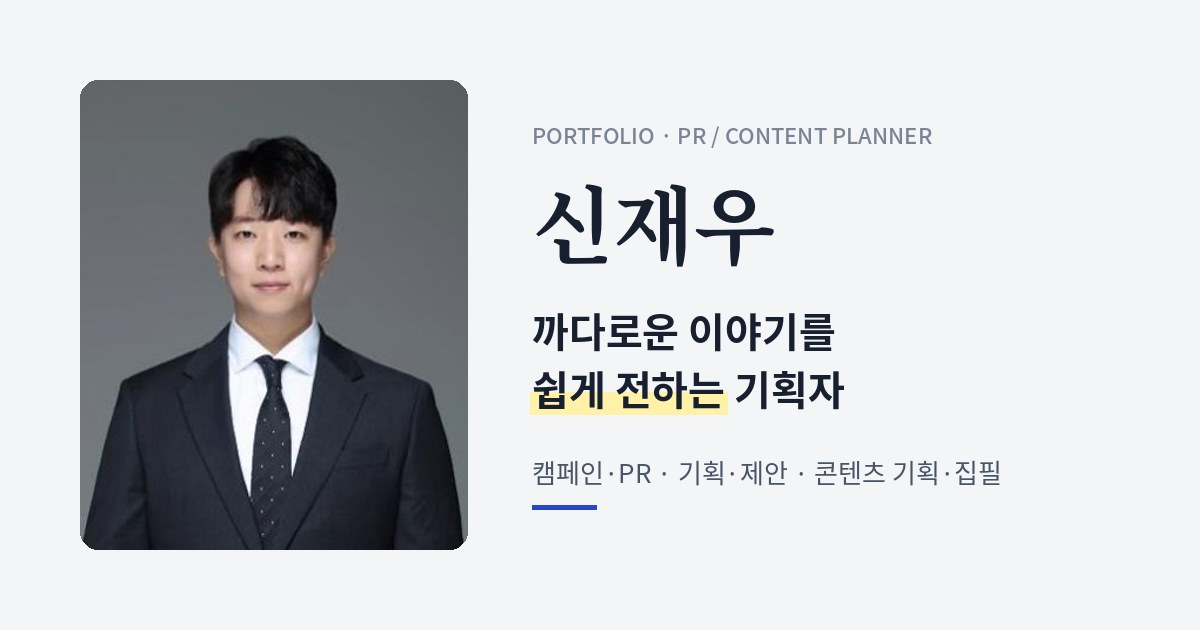
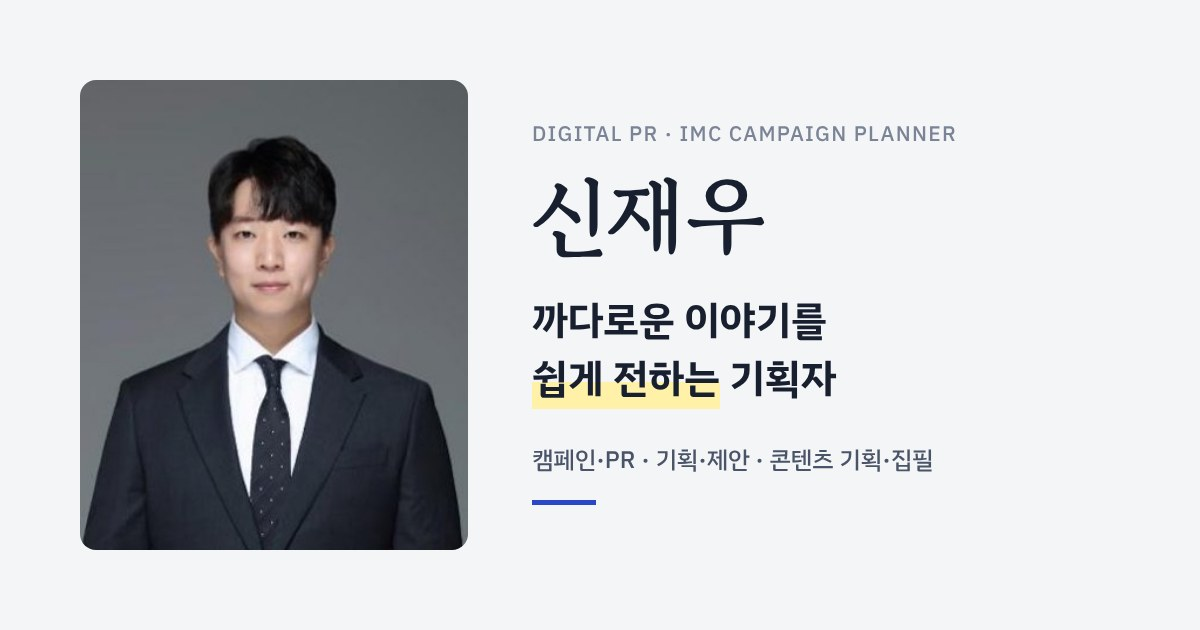
카톡 미리보기 이미지 직함 갱신
Claude-Session: https://claude.ai/code/session_01BZvQeDoKKdnNWpUS4iJQ1a

diff --git a/index.html b/index.html
@@ -8,7 +8,7 @@
 <meta property="og:url" content="https://shinjaewoo-kr.github.io/">
 <meta property="og:title" content="신재우 포트폴리오 | 까다로운 이야기를 쉽게 전하는 기획자">
 <meta property="og:description" content="PR 대행사·대기업 사내 커뮤니케이션·정부 영상 콘텐츠를 거친 5년 차 기획자 신재우의 포트폴리오. 헬스케어·공공·엔터테인먼트 캠페인과 제안, 콘텐츠 기획.">
-<meta property="og:image" content="https://shinjaewoo-kr.github.io/img/og.jpg">
+<meta property="og:image" content="https://shinjaewoo-kr.github.io/img/og.jpg?v=2">
 <meta property="og:image:width" content="1200">
 <meta property="og:image:height" content="630">
 <meta name="twitter:card" content="summary_large_image">

diff --git a/CLAUDE.md b/CLAUDE.md
@@ -24,7 +24,7 @@
 - 디자인: 제목 글꼴 Gowun Batang, 본문 IBM Plex Sans KR, 숫자·라벨 IBM Plex Mono / 포인트 색 `#2a46c9`, 형광펜 `#fff1a8` / 라이트·다크 모드 자동.
 - **한국어 줄바꿈:** `body`에 `word-break:keep-all`이 들어 있습니다. 글을 추가하거나 고칠 때 단어 중간에서 줄이 넘어가지 않는지 휴대폰 폭(390px)과 PC 폭에서 꼭 확인하세요. 사용자가 계속 챙겨 달라고 요청한 부분입니다.
 - 이미지: JPG, 가로 1200–1400px, 품질 80 정도로 줄여 `img/`에 저장합니다. 카드 표지는 16:10 비율로 잘려 보이니 중요한 부분이 가운데 오게 잘라 둡니다.
-- 카톡·SNS 링크 미리보기: `<head>`의 og 태그와 `img/og.jpg`(1200×630)를 씁니다. 제목이나 소개 문구가 바뀌면 이것도 같이 고칩니다.
+- 카톡·SNS 링크 미리보기: `<head>`의 og 태그와 `img/og.jpg`(1200×630)를 씁니다. 제목이나 소개 문구가 바뀌면 이것도 같이 고칩니다. (10.28 직함 변경에 맞춰 새로 만듦. 카톡이 예전 이미지를 기억하므로 바꿀 때마다 og:image 주소 끝 `?v=` 숫자를 올립니다.)
 
 ## 3. 내용 작성 원칙 (중요)
 
